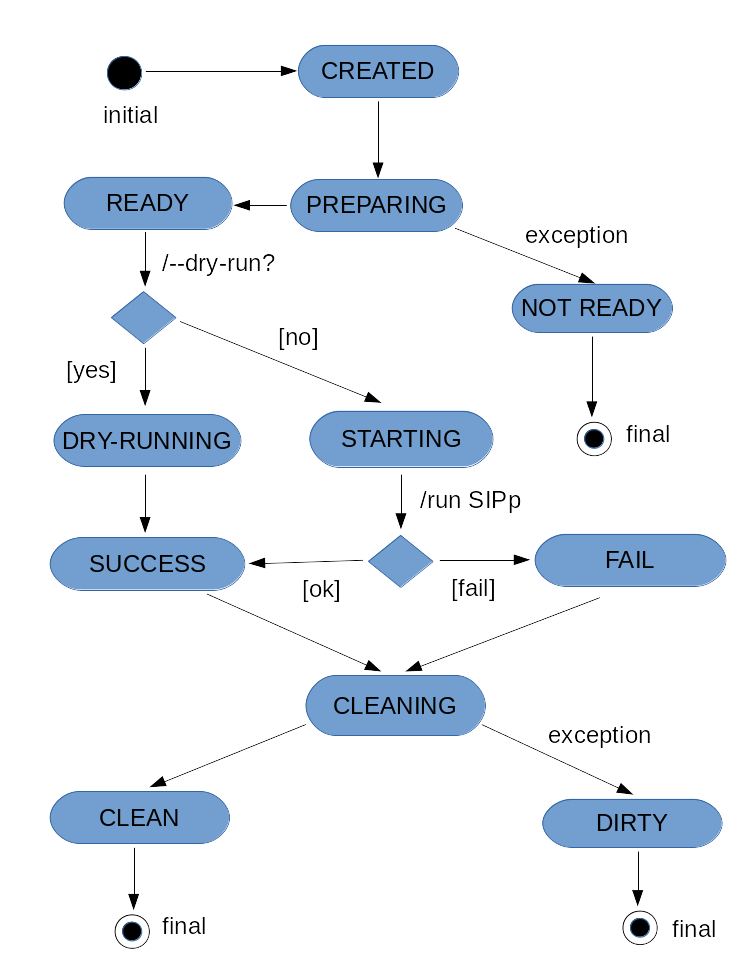
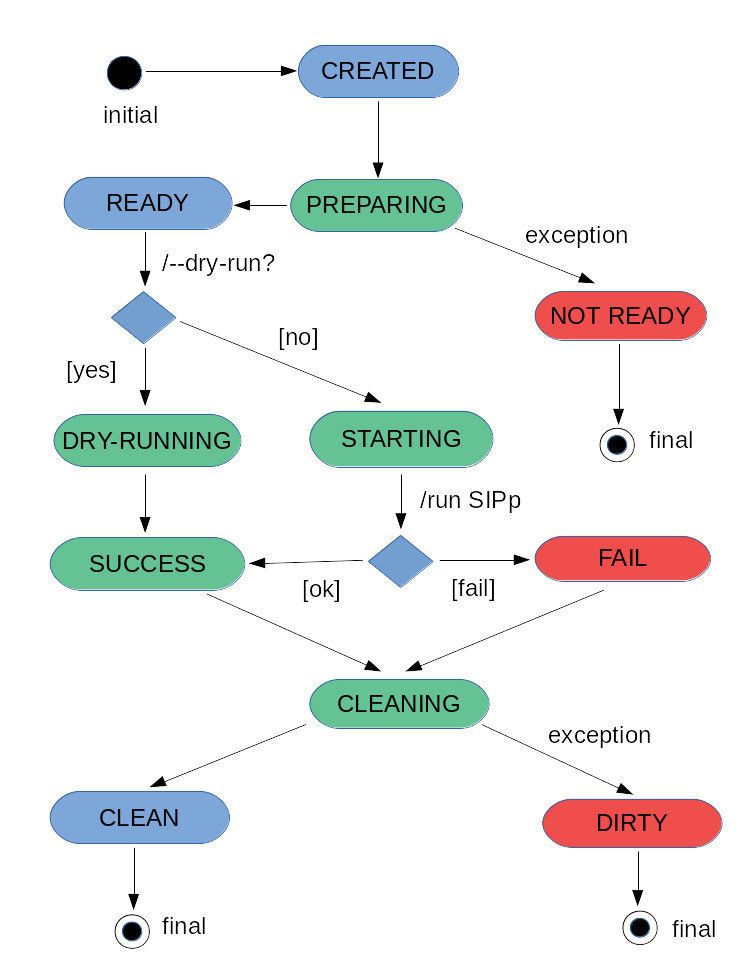
trivial: made state transition scheme colored

diff --git a/docs/developer_guide.md b/docs/developer_guide.md
@@ -91,6 +91,14 @@ During the stages each `SIPpTest` transits through states:
 
 ![](assets/images/states.png)
 
+State colors:
+
+|color|description|displayed to a user|
+|---|---|---|
+|![#65c295](https://placehold.it/15/65c295/000000?text=+) `green`|state during normal operation|yes|
+|![#7da7d8](https://placehold.it/15/7da7d8/000000?text=+) `blue`|state during normal operation|no|
+|![#f04e4d](https://placehold.it/15/f04e4d/000000?text=+) `red`|state during error|yes|
+
 Here is the order of these stages:
 
 ---
